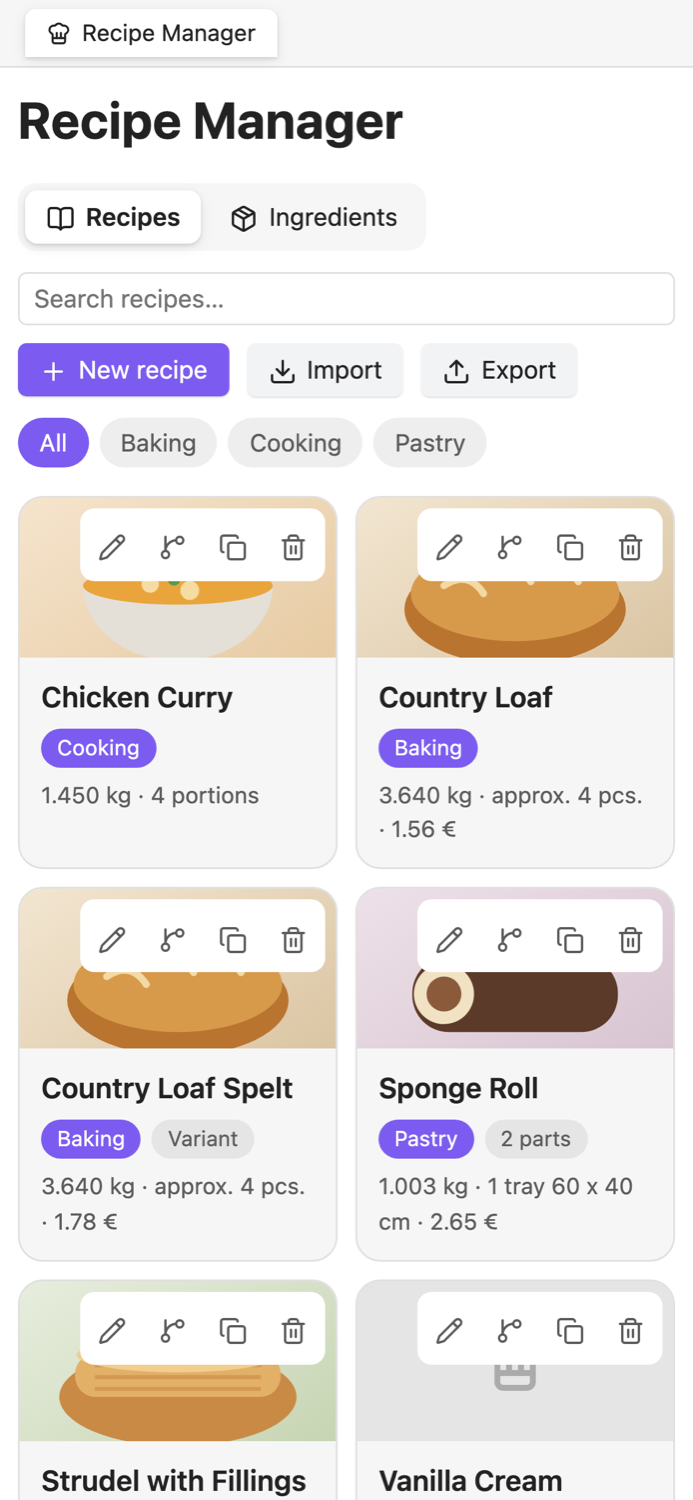
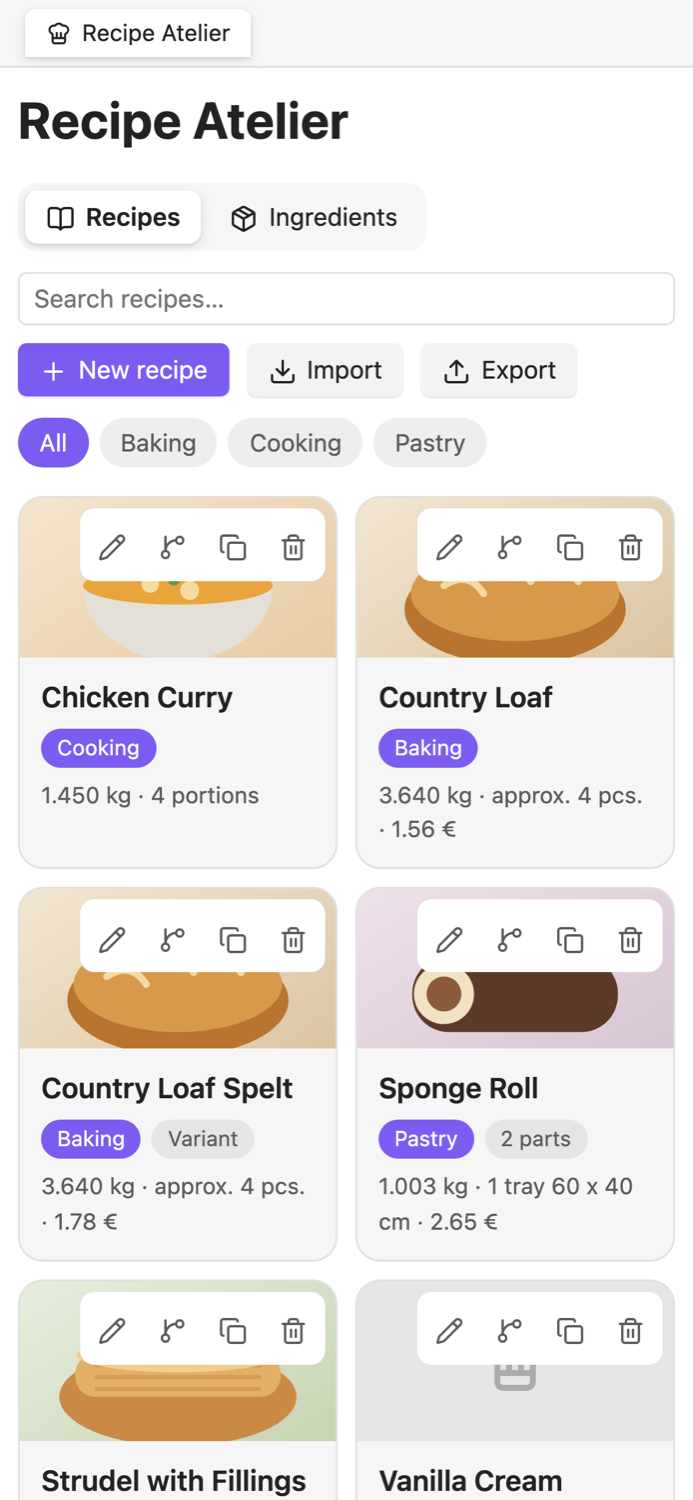
Rename plugin to Recipe Atelier
The name "Recipe Manager" is already taken in the plugin directory.
New id: recipe-atelier. Data format (recipe-manager code block) is unchanged.

Changed region(s): [[0.2727, 0.0613, 0.5758, 0.1227], [0.2424, 0.0, 0.3636, 0.0307]]

diff --git a/main.js b/main.js
@@ -1,10 +1,10 @@
 "use strict";
-/* Recipe Manager – Rezeptverwaltung für Backen, Kochen & Konditorei */
+/* Recipe Atelier – recipe management for baking, cooking and pastry */
 const obsidian = require("obsidian");
 const { Plugin, ItemView, Modal, Notice, PluginSettingTab, Setting, TFile, normalizePath, setIcon, Platform, moment, arrayBufferToBase64, base64ToArrayBuffer } = obsidian;
 
-const VIEW_DASH = "recipe-manager-dashboard";
-const VIEW_EDIT = "recipe-manager-editor";
+const VIEW_DASH = "recipe-atelier-dashboard";
+const VIEW_EDIT = "recipe-atelier-editor";
 const FENCE = "```";
 const BLOCK_LANG = "recipe-manager";
 
@@ -167,7 +167,7 @@ const EN = {
  " überschrieben, ": " overwritten, ",
  " übersprungen": " skipped",
  "Import fehlgeschlagen: ": "Import failed: ",
- "Keine Recipe-Manager-Exportdatei": "Not a Recipe Manager export file",
+ "Keine Recipe-Atelier-Exportdatei": "Not a Recipe Atelier export file",
  "Datei nicht lesbar: ": "File not readable: ",
  "Titel": "Title",
  "z. B. Roggenbrot": "e.g. rye bread",
@@ -653,7 +653,7 @@ class RecipeManagerPlugin extends Plugin {
     this.registerView(VIEW_DASH, (leaf) => new DashboardView(leaf, this));
     this.registerView(VIEW_EDIT, (leaf) => new RecipeEditorView(leaf, this));
 
-    this.addRibbonIcon("chef-hat", "Recipe Manager", () => this.openDashboard());
+    this.addRibbonIcon("chef-hat", "Recipe Atelier", () => this.openDashboard());
 
     this.addCommand({ id: "open-dashboard", name: tx("Dashboard öffnen"), callback: () => this.openDashboard() });
     this.addCommand({ id: "new-recipe", name: tx("Neues Rezept"), callback: () => new NewRecipeModal(this.app, this).open() });
@@ -1169,7 +1169,7 @@ class DashboardView extends ItemView {
     this.timer = null;
   }
   getViewType() { return VIEW_DASH; }
-  getDisplayText() { return "Recipe Manager"; }
+  getDisplayText() { return "Recipe Atelier"; }
   getIcon() { return "chef-hat"; }
   async onOpen() { this.contentEl.addClass("rm-dash"); await this.render(); }
   scheduleRefresh() {
@@ -1181,7 +1181,7 @@ class DashboardView extends ItemView {
     const el = this.contentEl;
     el.empty();
     const top = el.createDiv("rm-dash-top");
-    top.createEl("h1", { text: "Recipe Manager" });
+    top.createEl("h1", { text: "Recipe Atelier" });
     const tabs = top.createDiv("rm-tabs");
     [["recipes", tx("Rezepte"), "book-open"], ["ingredients", tx("Rohstoffe"), "package"]].forEach(([k, label, icon]) => {
       const b = tabs.createEl("button", { cls: "rm-tab" + (this.tab === k ? " is-active" : "") });
@@ -1509,7 +1509,7 @@ class ImportModal extends Modal {
   load(text) {
     try {
       const j = JSON.parse(text);
-      if (j.format !== "recipe-manager-bundle" || !Array.isArray(j.recipes)) throw new Error(tx("Keine Recipe-Manager-Exportdatei"));
+      if (j.format !== "recipe-manager-bundle" || !Array.isArray(j.recipes)) throw new Error(tx("Keine Recipe-Atelier-Exportdatei"));
       this.bundle = j;
       this.draw();
     } catch (e) { new Notice(tx("Datei nicht lesbar: ") + e.message); }

diff --git a/README.md b/README.md
@@ -1,4 +1,4 @@
-# Recipe Manager
+# Recipe Atelier
 
 Recipe management for **baking, cooking and pastry** – with baker's percentages, multi-part recipes, piece / portion / tray scaling, an ingredient database with prices and suppliers, step photos, variants and a one-file export/import.
 
@@ -6,7 +6,7 @@ Recipes are normal notes in your vault, ingredients are normal notes with proper
 
 > **Languages:** English and German (Deutsch). The interface follows the Obsidian language automatically and can be switched in the plugin settings.
 
-![Dashboard](https://raw.githubusercontent.com/MarioLung/obsidian-recipe-manager/main/docs/screenshots/01-dashboard.png)
+![Dashboard](https://raw.githubusercontent.com/MarioLung/obsidian-recipe-atelier/main/docs/screenshots/01-dashboard.png)
 
 ## Features
 
@@ -17,7 +17,7 @@ Recipes are normal notes in your vault, ingredients are normal notes with proper
 - **Linked parts:** an ingredient can point to the sum of another part (e.g. *Poolish* inside the final dough).
 - Notes per ingredient (e.g. “5 pieces”, “room temperature”).
 
-![Recipe view](https://raw.githubusercontent.com/MarioLung/obsidian-recipe-manager/main/docs/screenshots/02-recipe-view.png)
+![Recipe view](https://raw.githubusercontent.com/MarioLung/obsidian-recipe-atelier/main/docs/screenshots/02-recipe-view.png)
 
 ### Scaling
 - **Pieces:** set a piece weight, then change the number of pieces – every amount follows. Optional baking loss gives the baked weight.
@@ -25,7 +25,7 @@ Recipes are normal notes in your vault, ingredients are normal notes with proper
 - **Filling per piece:** a part that is not part of the total weight can be driven by the piece count (e.g. 20 g filling per piece).
 - In the recipe view you can scale *temporarily* with a factor or a target piece count without changing the recipe.
 
-![Alternatives and scaling](https://raw.githubusercontent.com/MarioLung/obsidian-recipe-manager/main/docs/screenshots/03-recipe-scaled.png)
+![Alternatives and scaling](https://raw.githubusercontent.com/MarioLung/obsidian-recipe-atelier/main/docs/screenshots/03-recipe-scaled.png)
 
 ### Alternatives and variants
 - **Alternatives:** parts with the same group name (e.g. *Filling*) are shown as tabs – pick one, the costs follow the selection.
@@ -35,33 +35,33 @@ Recipes are normal notes in your vault, ingredients are normal notes with proper
 - Ingredient database: category, supplier **with website link**, packaging unit, package weight, price per package, article number, allergens.
 - Price per kg / piece is calculated; recipes show **material cost** per recipe, per piece, per portion and per tray.
 
-![Ingredients](https://raw.githubusercontent.com/MarioLung/obsidian-recipe-manager/main/docs/screenshots/07-ingredients.png)
+![Ingredients](https://raw.githubusercontent.com/MarioLung/obsidian-recipe-atelier/main/docs/screenshots/07-ingredients.png)
 
 ### Photos and steps
 - Photo of the finished product, photo for every working step (file picker or drag & drop).
 - Free-form parameters (dough temperature, proofing, baking temperature, baking time, program, …).
 
-![Editor](https://raw.githubusercontent.com/MarioLung/obsidian-recipe-manager/main/docs/screenshots/04-editor.png)
+![Editor](https://raw.githubusercontent.com/MarioLung/obsidian-recipe-atelier/main/docs/screenshots/04-editor.png)
 
 ### Export and import
 - Export **all or selected recipes** with the ingredients they use and their images into **one file** (`*.rmbundle.json`).
 - Import with preview; existing recipes can be skipped, overwritten or imported as copies.
 
-![Export](https://raw.githubusercontent.com/MarioLung/obsidian-recipe-manager/main/docs/screenshots/08-export.png)
+![Export](https://raw.githubusercontent.com/MarioLung/obsidian-recipe-atelier/main/docs/screenshots/08-export.png)
 
 ### Works everywhere
 Light and dark themes, phone and tablet layouts, no Node/Electron APIs – so it runs on every Obsidian platform.
 
 | Dashboard | Recipe | Editor |
 |---|---|---|
-| ![](https://raw.githubusercontent.com/MarioLung/obsidian-recipe-manager/main/docs/screenshots/m1-dashboard.png) | ![](https://raw.githubusercontent.com/MarioLung/obsidian-recipe-manager/main/docs/screenshots/m2-recipe.png) | ![](https://raw.githubusercontent.com/MarioLung/obsidian-recipe-manager/main/docs/screenshots/m3-editor.png) |
+| ![](https://raw.githubusercontent.com/MarioLung/obsidian-recipe-atelier/main/docs/screenshots/m1-dashboard.png) | ![](https://raw.githubusercontent.com/MarioLung/obsidian-recipe-atelier/main/docs/screenshots/m2-recipe.png) | ![](https://raw.githubusercontent.com/MarioLung/obsidian-recipe-atelier/main/docs/screenshots/m3-editor.png) |
 
 ## Installation
 
-**From the community plugin browser** (after approval): *Settings → Community plugins → Browse → “Recipe Manager” → Install → Enable*.
+**From the community plugin browser** (after approval): *Settings → Community plugins → Browse → “Recipe Atelier” → Install → Enable*.
 
-**Manual:** download `main.js`, `manifest.json` and `styles.css` from the [latest release](https://github.com/MarioLung/obsidian-recipe-manager/releases/latest) and copy them to
-`<your vault>/.obsidian/plugins/recipe-manager/`, then enable the plugin under *Community plugins*.
+**Manual:** download `main.js`, `manifest.json` and `styles.css` from the [latest release](https://github.com/MarioLung/obsidian-recipe-atelier/releases/latest) and copy them to
+`<your vault>/.obsidian/plugins/recipe-atelier/`, then enable the plugin under *Community plugins*.
 
 **With BRAT** (beta testing, also works on iPhone/iPad): add this repository in the BRAT plugin.
 
@@ -93,4 +93,4 @@ The plugin makes **no network requests**, has **no telemetry** and only reads an
 Issues and pull requests are welcome.
 
 ## License
-[MIT](https://github.com/MarioLung/obsidian-recipe-manager/blob/main/LICENSE)
+[MIT](https://github.com/MarioLung/obsidian-recipe-atelier/blob/main/LICENSE)
